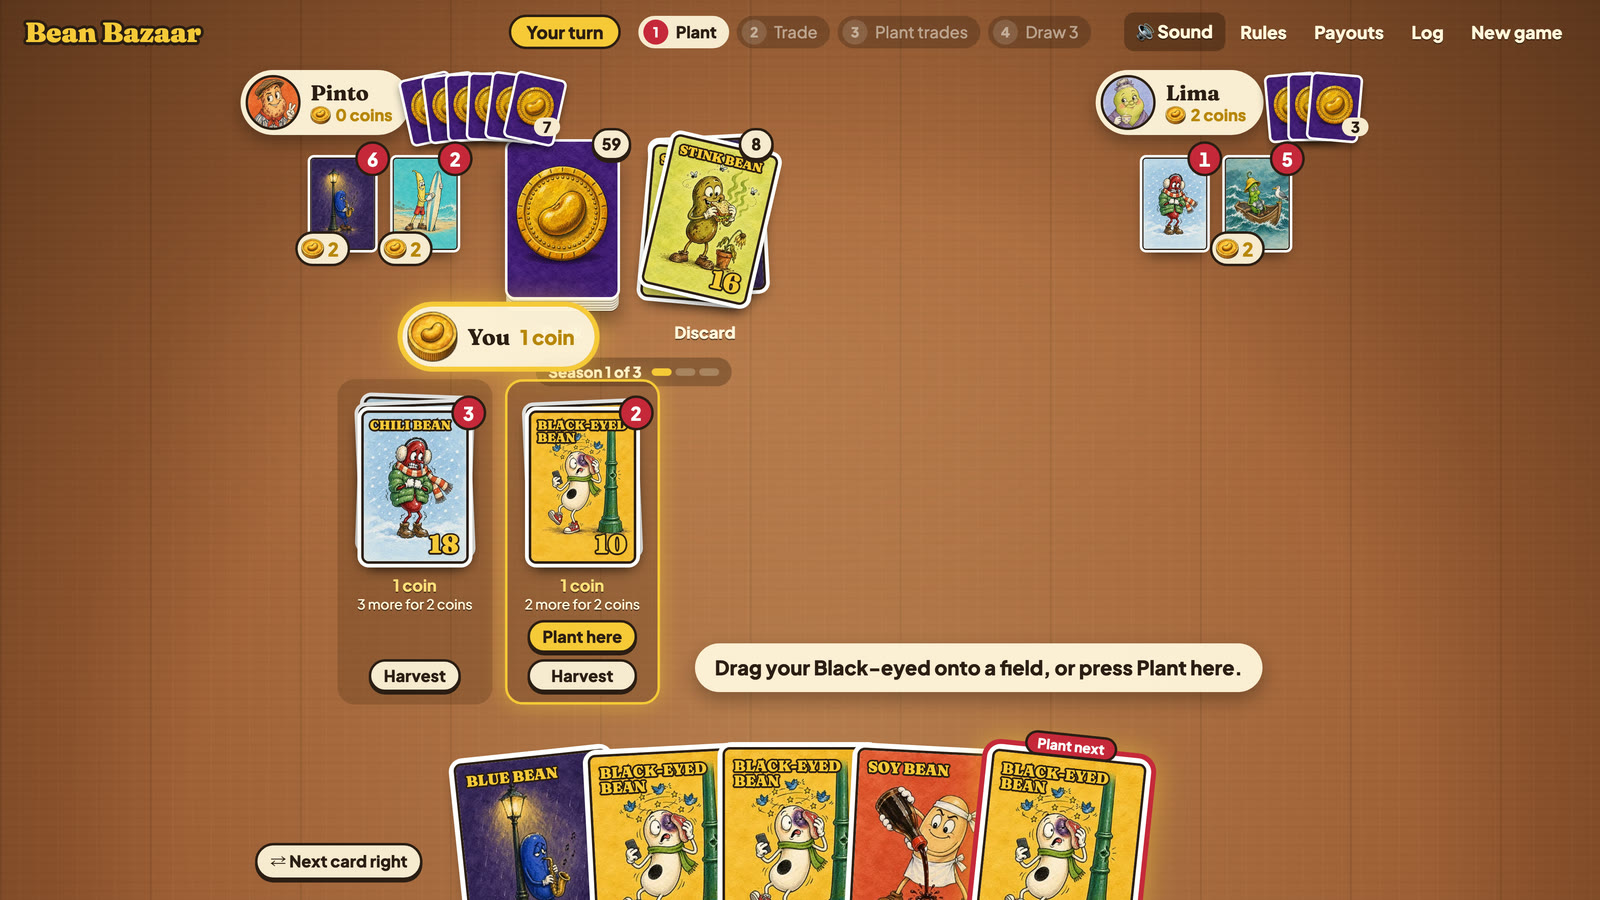
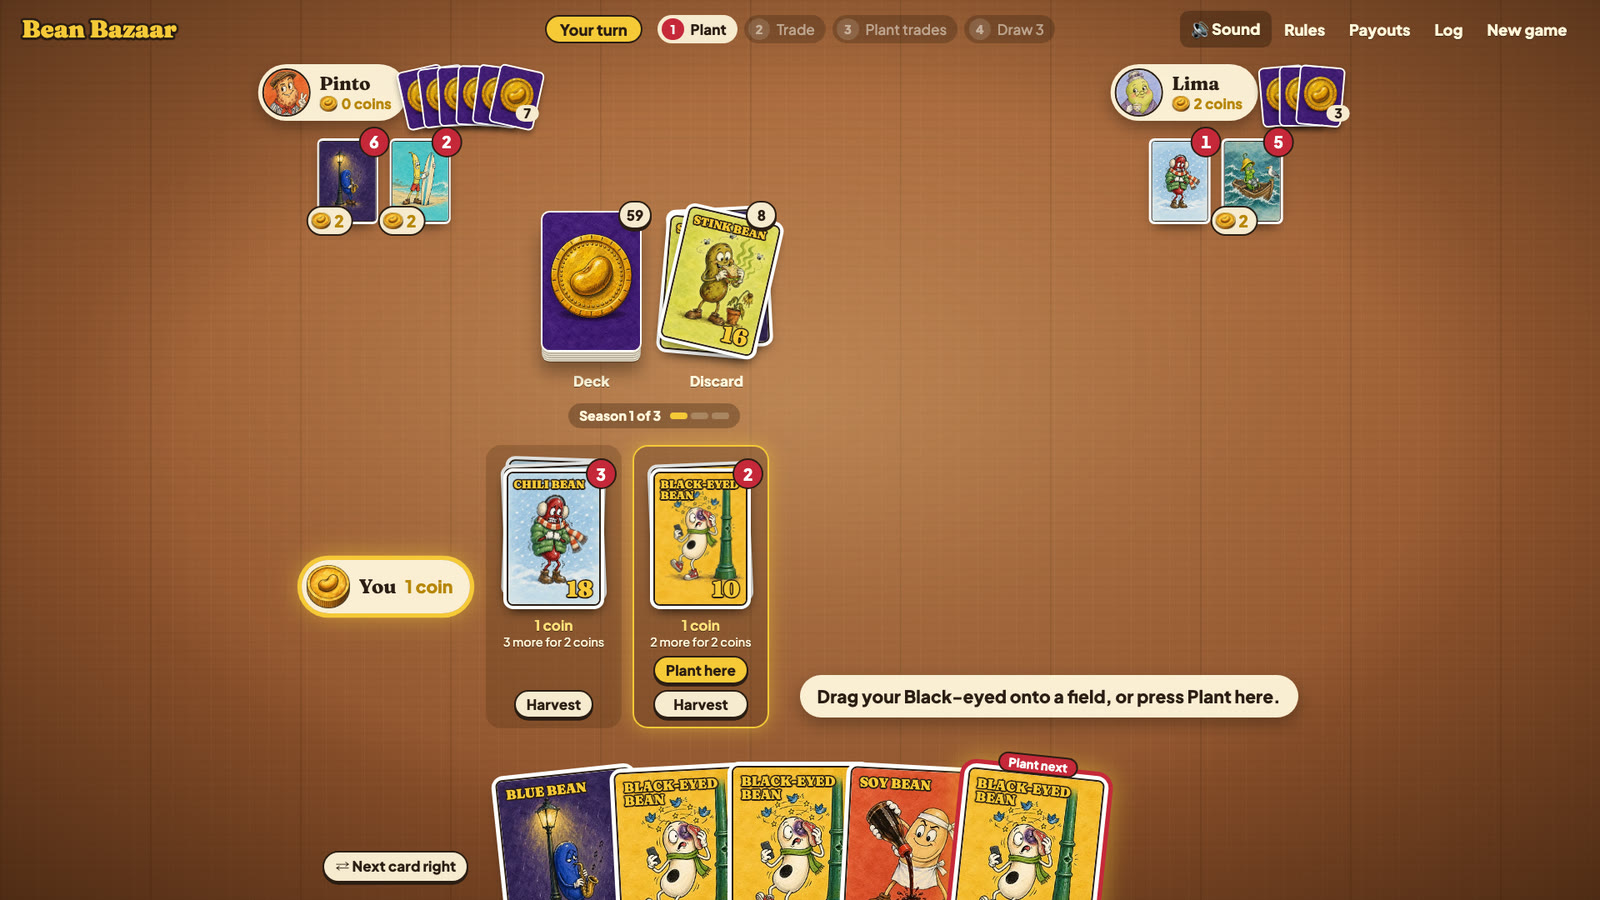
Put your coin plate beside your fields so it stops covering the market
On a desktop table your plate sat on top of your fields, and that stack was
taller than its row: with two bots it spilled into the market and covered
the season bar or the deck label, at every desktop size from 1280x720 up.
Beside the fields, as the upright phone layout already does, it fits. A
sideways phone keeps it on top, where it has the height.

The README's GIF is now a real turn filmed from the fixed game, the
screenshot is retaken from it, and the Golden card is back in the card row.

diff --git a/src/components/GameTable.vue b/src/components/GameTable.vue
@@ -833,7 +833,9 @@ function ordinal(place: number): string {
 .me { position: relative; z-index: 3; display: grid; gap: 6px; padding: 0 24px; }
 .row { display: flex; gap: 28px; align-items: flex-end; justify-content: center; }
 .my-spot { grid-row: 3; z-index: 2; padding-bottom: 8px; }
-.farm-side { display: grid; gap: 10px; justify-items: center; }
+/* Your plate sits beside your fields, not above them: stacked, they ran into the
+   market on a desktop table. */
+.farm-side { display: grid; grid-auto-flow: column; gap: 14px; align-items: center; justify-items: center; }
 .farm { display: flex; gap: 10px; align-items: stretch; }
 .buy-field {
   width: 110px;
@@ -846,7 +848,7 @@ function ordinal(place: number): string {
   font-size: 14px;
 }
 .action { min-width: 320px; display: grid; gap: 10px; align-content: center; justify-items: start; }
-.plate-row { display: flex; gap: 8px; align-items: center; }
+.plate-row { display: flex; flex-direction: column; gap: 8px; align-items: center; }
 .coin-hop { animation: coin-hop .3s var(--ease-bounce); }
 @keyframes coin-hop { 40% { transform: translateY(-6px) scale(1.15) rotate(-8deg); } }
 .my-plate {
@@ -1046,7 +1048,9 @@ function ordinal(place: number): string {
   .row { align-items: center; }
   .action { width: 272px; }
   /* Your column is the tallest sideways, so the leftover-cards note stays one plate high. */
-  .farm-side { gap: 4px; }
+  /* Sideways there is height to spare but no width, so the plate goes back on top. */
+  .farm-side { grid-auto-flow: row; gap: 4px; }
+  .plate-row { flex-direction: row; }
   .locked { flex-wrap: nowrap; padding: 3px 8px; }
   .locked :deep(.card.mini) { width: 22px; padding: 1px; border-radius: 3px; }
 }

diff --git a/README.md b/README.md
@@ -6,7 +6,7 @@
 
 A bean-trading card game for 1 player against 2 to 4 bots, right in your browser.
 
-[![Planting, trading and harvesting in Bean Bazaar](docs/media/gameplay.gif)](#watch-the-trailer)
+[![A real turn: plant a bean, flip two cards, then take a gift from Pinto](docs/media/gameplay.gif)](https://bean-bazaar.calvinphuah.com)
 
 ### [▶ Play free in your browser](https://bean-bazaar.calvinphuah.com) · [🎬 Watch the trailer](#watch-the-trailer)
 
@@ -26,7 +26,7 @@ https://github.com/user-attachments/assets/26a68a9e-3174-4e5e-a48a-ec110c18f053
   <img src="public/cards/stink-240.webp" width="110" alt="Stink Bean">
   <img src="public/cards/soy-240.webp" width="110" alt="Soy Bean">
   <img src="public/cards/red-240.webp" width="110" alt="Red Bean">
-  <img src="public/cards/wax-240.webp" width="110" alt="Wax Bean">
+  <img src="public/cards/golden-240.webp" width="110" alt="Golden Bean">
 </p>
 
 Every bean is hand-painted, from the Blue Bean playing sax in the rain to the Chili Bean bundled up against the snow.
